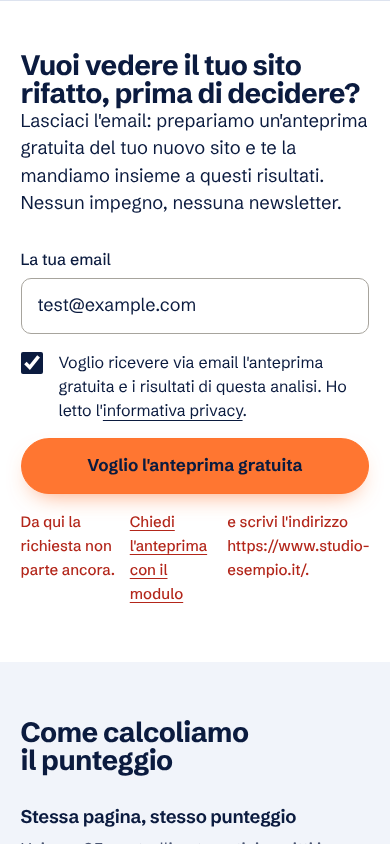
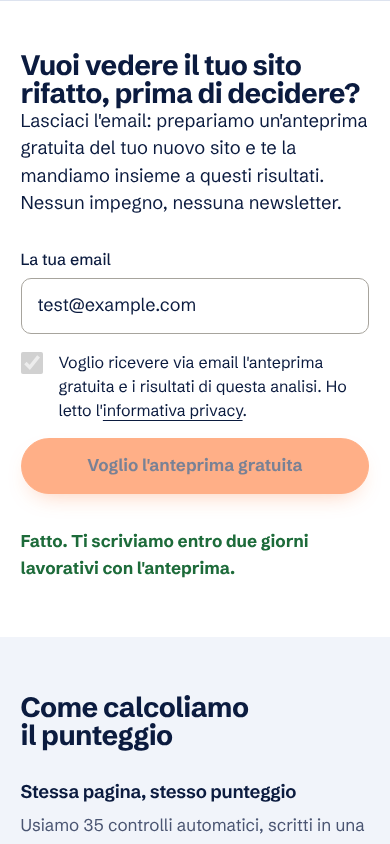
Scorer report explains the score: why not 100, per-category notes, bands, two samples
Claude-Session: https://claude.ai/code/session_01DgEBdx8iCkMoWfpRPfTnBi

diff --git a/focale/src/scripts/scorer-ui.ts b/focale/src/scripts/scorer-ui.ts
@@ -25,6 +25,7 @@ interface Data {
   benchmark: { templates: Record<string, { label: string; path: string; total: number; categories?: { id: string; label: string; earned: number; max: number }[] }> };
   consent: { version: string; text: string };
   sample: FullAnalysis;
+  sampleGood: FullAnalysis;
   rubricVersion: string;
 }
 
@@ -131,10 +132,12 @@ export function initScorer() {
     }
   });
 
-  $("[data-sc-sample]").addEventListener("click", () => {
-    isSample = true;
-    show(data.sample);
-  });
+  document.querySelectorAll<HTMLButtonElement>("[data-sc-sample]").forEach((b) =>
+    b.addEventListener("click", () => {
+      isSample = true;
+      show(b.dataset.scSample === "good" ? data.sampleGood : data.sample);
+    }),
+  );
   $("[data-sc-print]").addEventListener("click", () => {
     const all = $<HTMLDetailsElement>(".sc-all");
     all.open = true;
@@ -160,6 +163,7 @@ export function initScorer() {
     $("[data-sc-sample-note]").hidden = !isSample;
     drawTop(report, full, sector, animate);
     drawCats(report);
+    drawWhy(report);
     drawFixes(report);
     drawFlags(report);
     drawAll(report);
@@ -209,18 +213,59 @@ export function initScorer() {
     requestAnimationFrame(tick);
   }
 
+  // Each category says in words where its points went: "Persi 3,5 punti: ..." or "Tutti i punti."
   function drawCats(report: Report) {
     const box = $("[data-sc-cats]");
     box.replaceChildren(
-      ...report.categories.map((c) =>
-        el(
+      ...report.categories.map((c) => {
+        const lost = report.checks.filter((x) => x.category === c.id && x.max > 0 && x.status !== "unmeasured" && x.earned < x.max);
+        const unmeasured = report.checks.some((x) => x.category === c.id && x.status === "unmeasured");
+        const note = !c.measured && !c.max
+          ? "Non misurata questa volta: non conta nel punteggio."
+          : lost.length
+            ? `Persi ${pts(c.max - c.earned)} punti. Da raggiungere: ${lost.map((x) => (/^(Google|WhatsApp|HTTPS)/.test(x.title) ? x.title : x.title.charAt(0).toLowerCase() + x.title.slice(1))).join("; ")}.`
+            : unmeasured ? "Tutti i punti misurati, ma una parte non è stata misurata." : "Tutti i punti.";
+        return el(
           "div",
           { class: "sc-cat" },
-          el("p", { class: "sc-cat__row" }, el("span", {}, c.label), el("span", {}, c.measured ? `${pts(c.earned)} su ${c.max}` : "non misurata")),
+          el("p", { class: "sc-cat__row" }, el("span", {}, c.label), el("span", {}, c.measured ? `${pts(c.earned)} su ${c.max}` : c.max ? `${pts(c.earned)} su ${c.max} misurati` : "non misurata")),
           bar(c.max ? c.earned / c.max : 0),
+          el("p", { class: "sc-cat__note" }, note),
+        );
+      }),
+    );
+  }
+
+  // "Perché 63 e non 100": every lost point, heaviest first, each with what we found.
+  function drawWhy(report: Report) {
+    const box = $("[data-sc-why]");
+    const lost = report.checks
+      .filter((x) => x.max > 0 && x.status !== "unmeasured" && x.earned < x.max)
+      .sort((a, b) => b.max - b.earned - (a.max - a.earned));
+    const passed = report.checks.filter((x) => x.max > 0 && x.status === "pass").length;
+    const measured = report.checks.filter((x) => x.max > 0 && x.status !== "unmeasured").length;
+    const head = el("h2", {}, report.total >= 100 ? "Perché 100" : `Perché ${report.total} e non 100`);
+    const intro = el(
+      "p",
+      { class: "sc-sub" },
+      report.total >= 100
+        ? `Tutti i ${measured} controlli misurati sono pieni. 100 vuol dire che non abbiamo trovato niente da sistemare, non che il sito porti per forza più clienti.`
+        : `Il punteggio è la somma di ${measured} controlli, ognuno con i suoi punti (in tutto 100). Ne hai superati ${passed} in pieno; i punti mancanti vengono ${lost.length === 1 ? "da questo controllo" : `da questi ${lost.length}, dal più pesante`}.` +
+          (report.partial ? " Alcuni controlli non sono stati misurati: il voto è la quota dei punti misurati." : ""),
+    );
+    const list = el(
+      "ul",
+      { class: "sc-why" },
+      ...lost.map((x) =>
+        el(
+          "li",
+          {},
+          el("span", { class: "sc-why__pts" }, `−${pts(x.max - x.earned)}`),
+          el("span", {}, el("strong", {}, x.title), x.status === "partial" ? " (in parte)" : "", el("small", {}, x.found)),
         ),
       ),
     );
+    box.replaceChildren(head, intro, ...(lost.length ? [list] : []));
   }
 
   function drawFixes(report: Report) {
